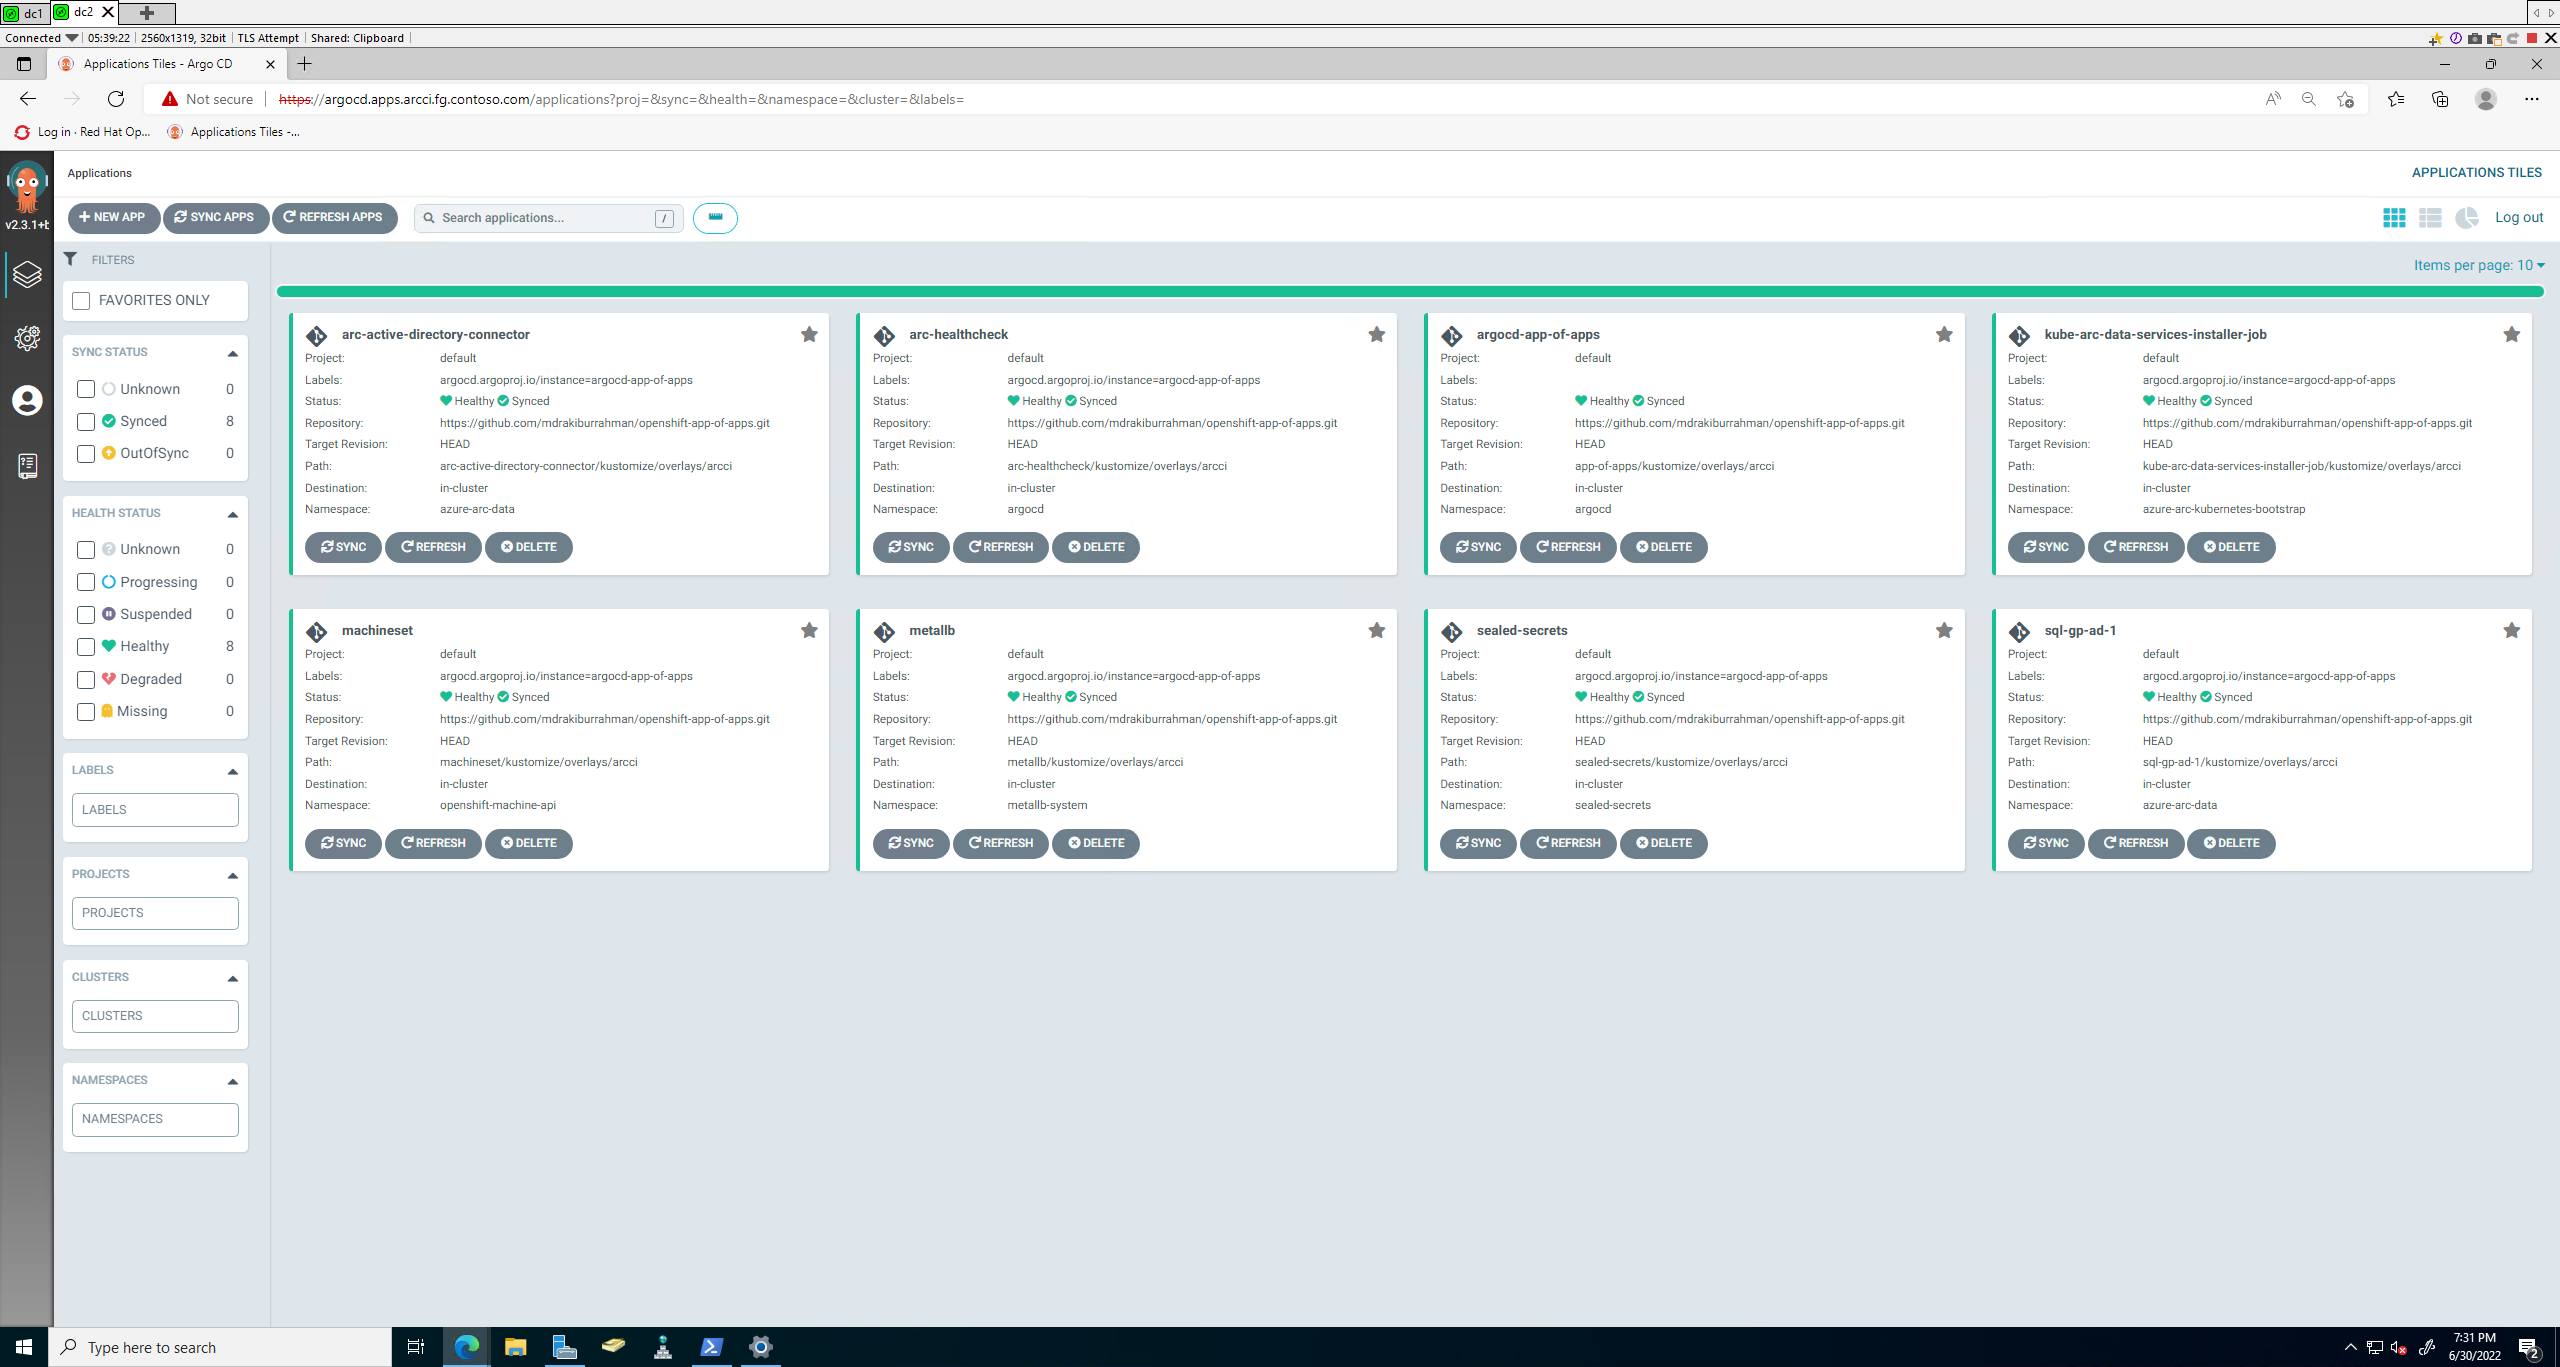
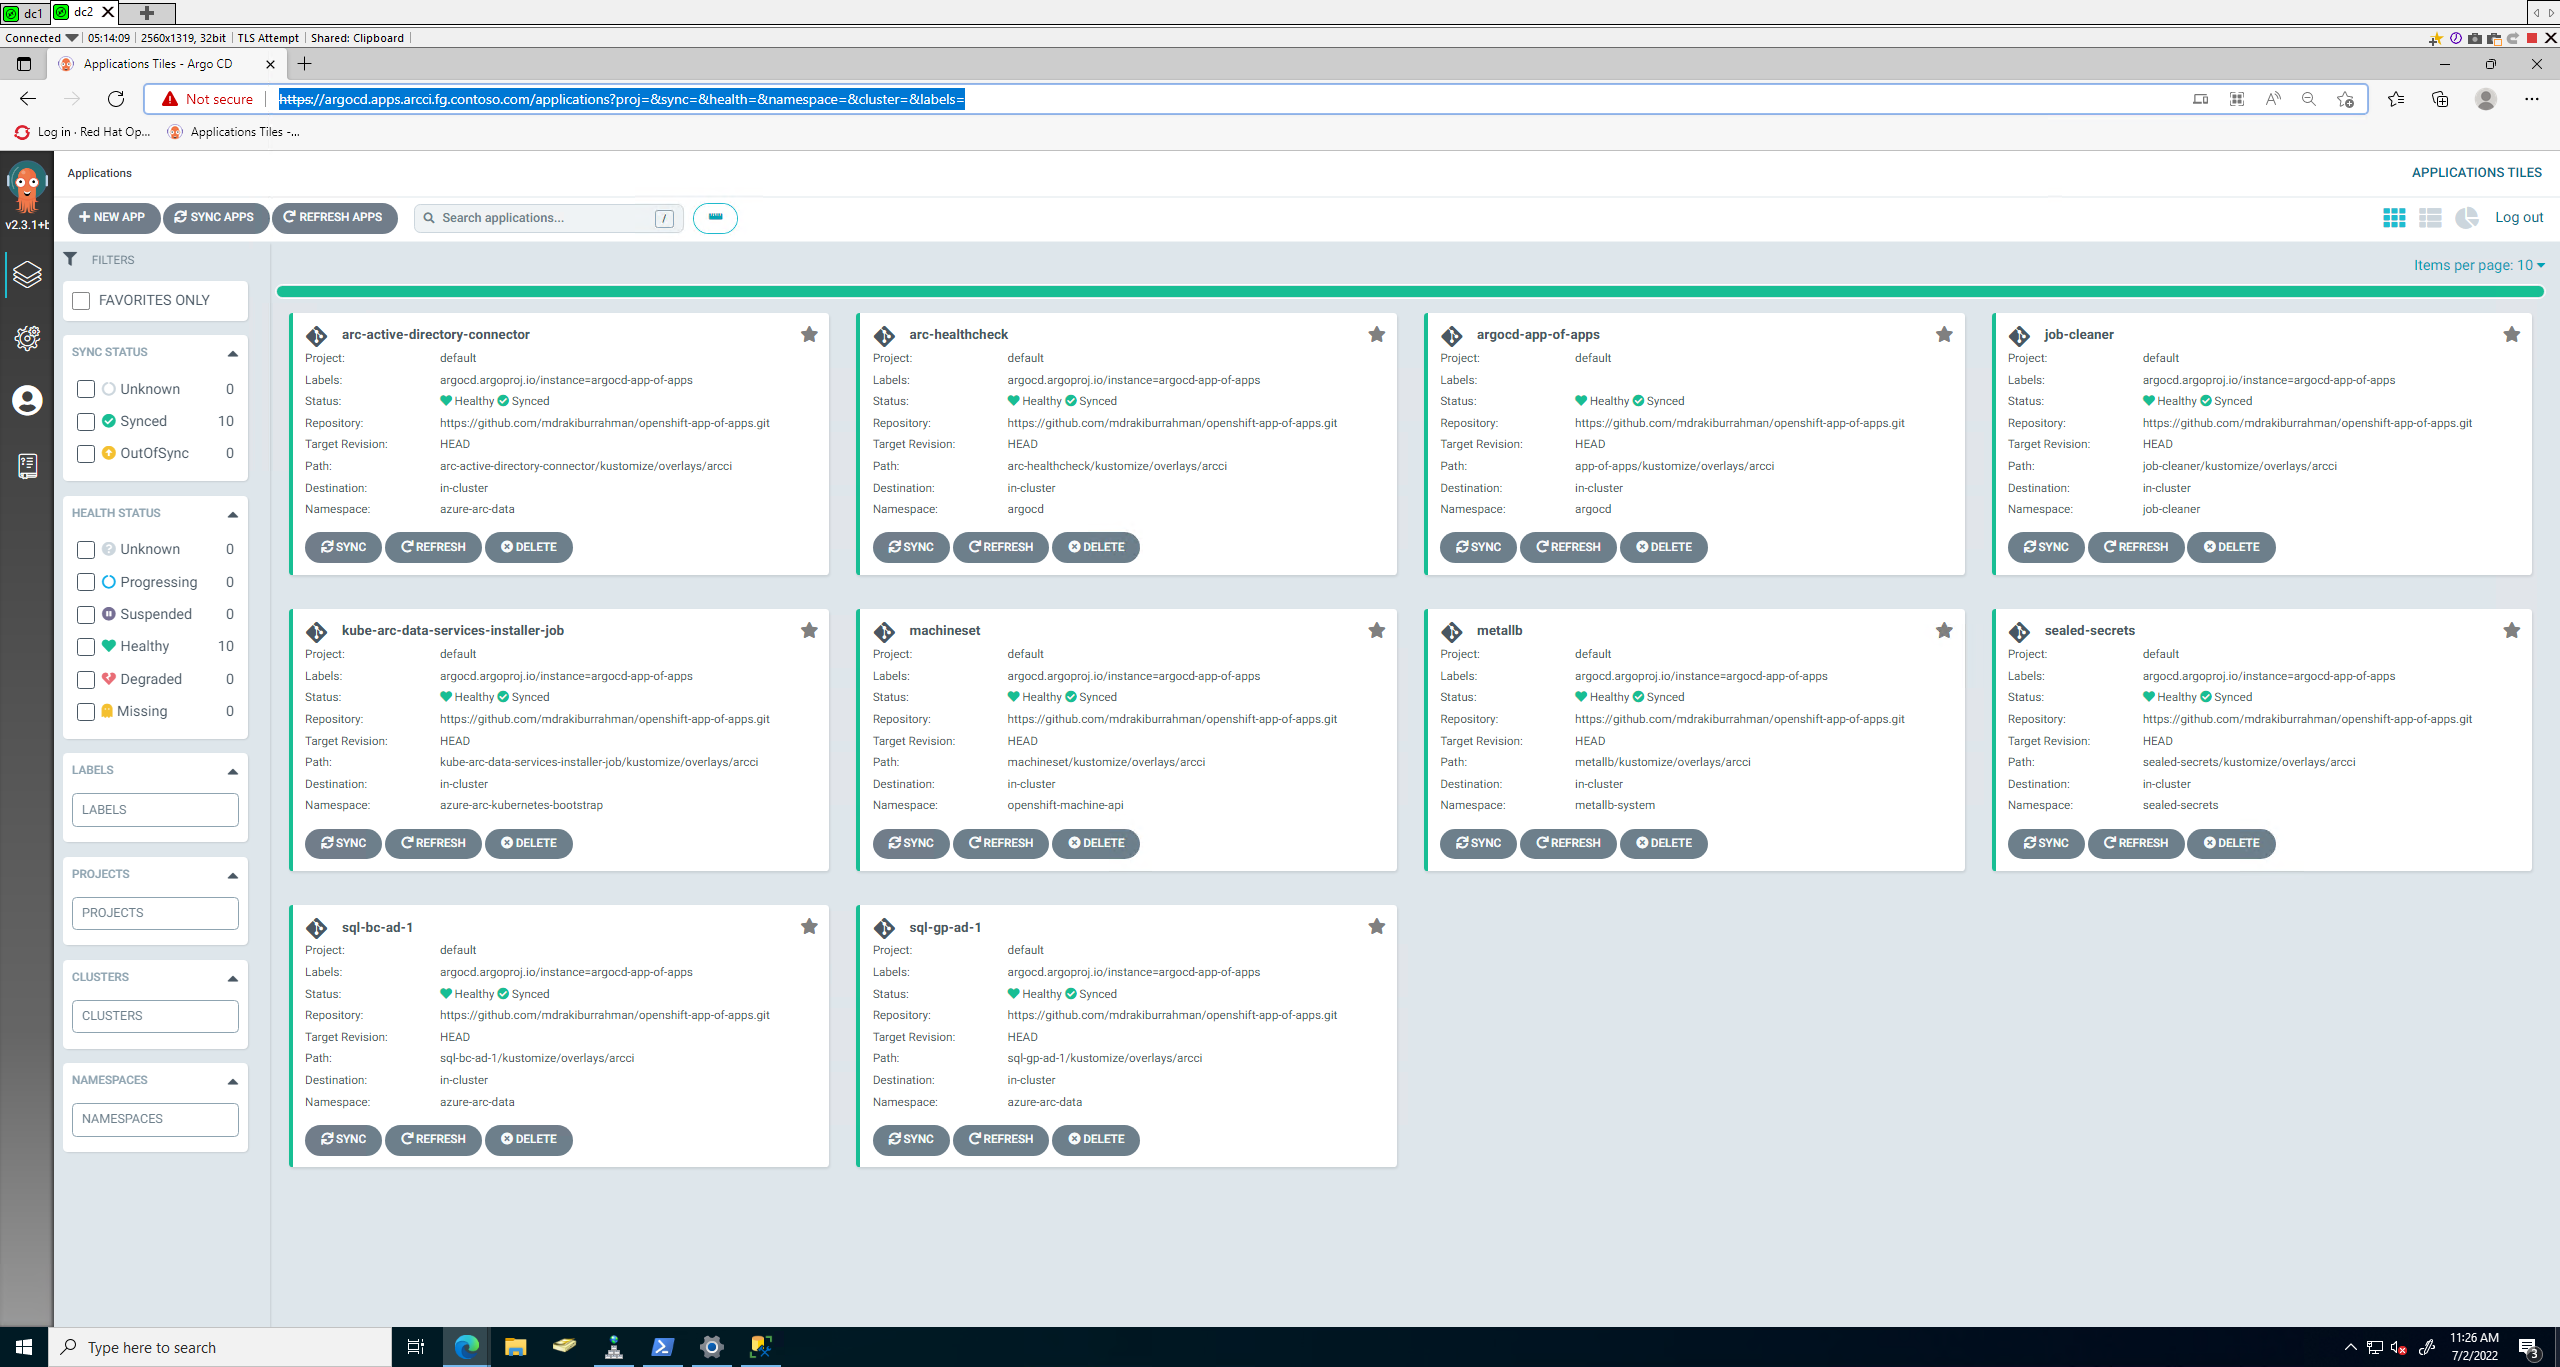
Added updated Job health checker and BC deploy App

diff --git a/README.md b/README.md
@@ -1186,9 +1186,19 @@ App-of-apps will create literally everything up untill MIAA in Git - so we need 
 
 ### Pre-reqs
 
+#### ArgoCD `configMap`
+
+Repeated delete testing causes the `argocd-cm` to get deleted since we use it in our healthchecks. First, check `oc get configmap argocd-cm -n argocd`.
+
+If it's not there, run:
+
+```bash
+kubectl apply -n argocd -f /workspaces/openshift-vsphere-install/ArgoCD/install/argo.yaml
+```
+
 #### Sealed Secret
 
-Inject BYOK for Sealed Secrets:
+Inject BYOK for Sealed Secrets - this will get wiped after App of App delete:
 
 ```bash
 export NAMESPACE="sealed-secrets"
@@ -1196,13 +1206,19 @@ kubectl create namespace "$NAMESPACE"
 kubectl apply -f /workspaces/openshift-vsphere-install/.devcontainer/.keys/sealed-secrets-secret.yaml
 ```
 
-#### `kube-arc-data-services-installer-job` Secret
+#### `kube-arc-data-services-installer-job`
 
-> Make sure the Encrypted Secret for the job is committed in git, e.g. [here](https://github.com/mdrakiburrahman/openshift-app-of-apps/blob/main/kube-arc-data-services-installer-job/kustomize/overlays/arcci/configs/azure-spn-secret.yaml)
+##### Secret
+
+Make sure the Encrypted Secret for the job is committed in git, e.g. [here](https://github.com/mdrakiburrahman/openshift-app-of-apps/blob/main/kube-arc-data-services-installer-job/kustomize/overlays/arcci/configs/azure-spn-secret.yaml)
+
+##### Onboard intention
+
+Make sure `DELETE_FLAG=false` in the ConfigMap, e.g. [here](https://github.com/mdrakiburrahman/openshift-app-of-apps/blob/74d372db114e02c2d57264b79281f731d3e17e84/kube-arc-data-services-installer-job/kustomize/overlays/arcci/configs/configMap.env#L1)
 
 #### Arc `ADC` connector
 
-Perform the following on the Domain Controller `ocplab-dc1`:
+One-time activity for Windows Service Account generation - perform the following on the Domain Controller `ocplab-dc1`:
 
 ```powershell
 Import-Module ActiveDirectory
@@ -1389,8 +1405,6 @@ We see our App of apps get rolled out with each stage of the healthcheck till th
 
 ![App of Apps](_images/63.png)
 
-> `TODO:` For the Arc `Job` onboarder, need to figure out why healthchecks need a Deployment Pod to function, rather than using the `Job`'s health
-
 ---
 
 # Post-deployment manual steps
@@ -1401,20 +1415,30 @@ We see our App of apps get rolled out with each stage of the healthcheck till th
 
 Grab IP address allocated to MIAA `LoadBalancer` externally:
 ```bash
-miaa_name='sql-gp-ad-1'
+# GP and BC Primary
+miaa_name='sql-gp-ad-1' #'sql-bc-ad-1'
 miaa_svcs=$(oc get svc -l=app.kubernetes.io/instance=${miaa_name} -n azure-arc-data -o=json)
-miaa_external_svc=$(echo $services | jq -r '.items[] | select(.spec.type == "LoadBalancer")')
+miaa_external_svc=$(echo $miaa_svcs | jq -r '.items[] | select(.spec.type == "LoadBalancer")')
 miaa_external_svc_ip=$(echo $miaa_external_svc | jq -r '.status.loadBalancer.ingress[0].ip')
 echo $miaa_external_svc_ip
-# 10.216.175.48
+# 10.216.175.48 <- GP
+# 10.216.175.49 10.216.175.50 <- BC
+
+# BC Secondary
+miaa_name='sql-bc-ad-1'
+kubectl get sqlmi ${miaa_name} -n azure-arc-data -o json | jq -r .status.endpoints.secondary
+# 10.216.175.50,1433 <- BC Secondary
 ```
 
 Add in DNS entry for the K8s service:
 ```powershell
 Add-DnsServerResourceRecordA -Name sql-gp-ad-1 -ZoneName fg.contoso.com -IPv4Address 10.216.175.48
+Add-DnsServerResourceRecordA -Name sql-bc-ad-1 -ZoneName fg.contoso.com -IPv4Address 10.216.175.49
 ```
 
-Login via SQL Admin creds to `10.216.175.48,31433` or `sql-gp-ad-1.fg.contoso.com,31433`, add in AD Groups as SQL Admin to MIAA:
+Login via SQL Admin creds to `sql-gp-ad-1.fg.contoso.com,31433` and `sql-gp-bc-1.fg.contoso.com,31433`, 
+
+Add in AD Groups as SQL Admin to MIAA:
 ```sql
 USE [master]
 GO
@@ -1423,6 +1447,8 @@ GO
 ALTER SERVER ROLE [sysadmin] ADD MEMBER [FG\arcci-admins]
 GO
 ```
+
+> At this time it looks like the Secondary Endpoint doesn't support AD Auth in ADC SMK mode (probably because the SPN's weren't registered)
 
 ![MIAA Create Creds](_images/40.png)
 
@@ -1669,7 +1695,6 @@ And we see the Pods coming up, and the Controller doing the deploy:
   - [X] OpenShift offboarding is not idempotent, route deletion causes Pod to fail
   - [X] Remove hacky workaround for onboarder `Job` that's present for Argo health check
 - [ ] See if it's worth factoring in the OpenShift deploy from devcontainer into Azure DevOps
-
 
 ### Networking
 - [X] Deal with DHCP with extreme dilligence! Ensure the ingress routes for OpenShift cannot be assigned to VMs (Windows or RHOS). This means I should carve out a chunk for multiple OpenShift clusters
